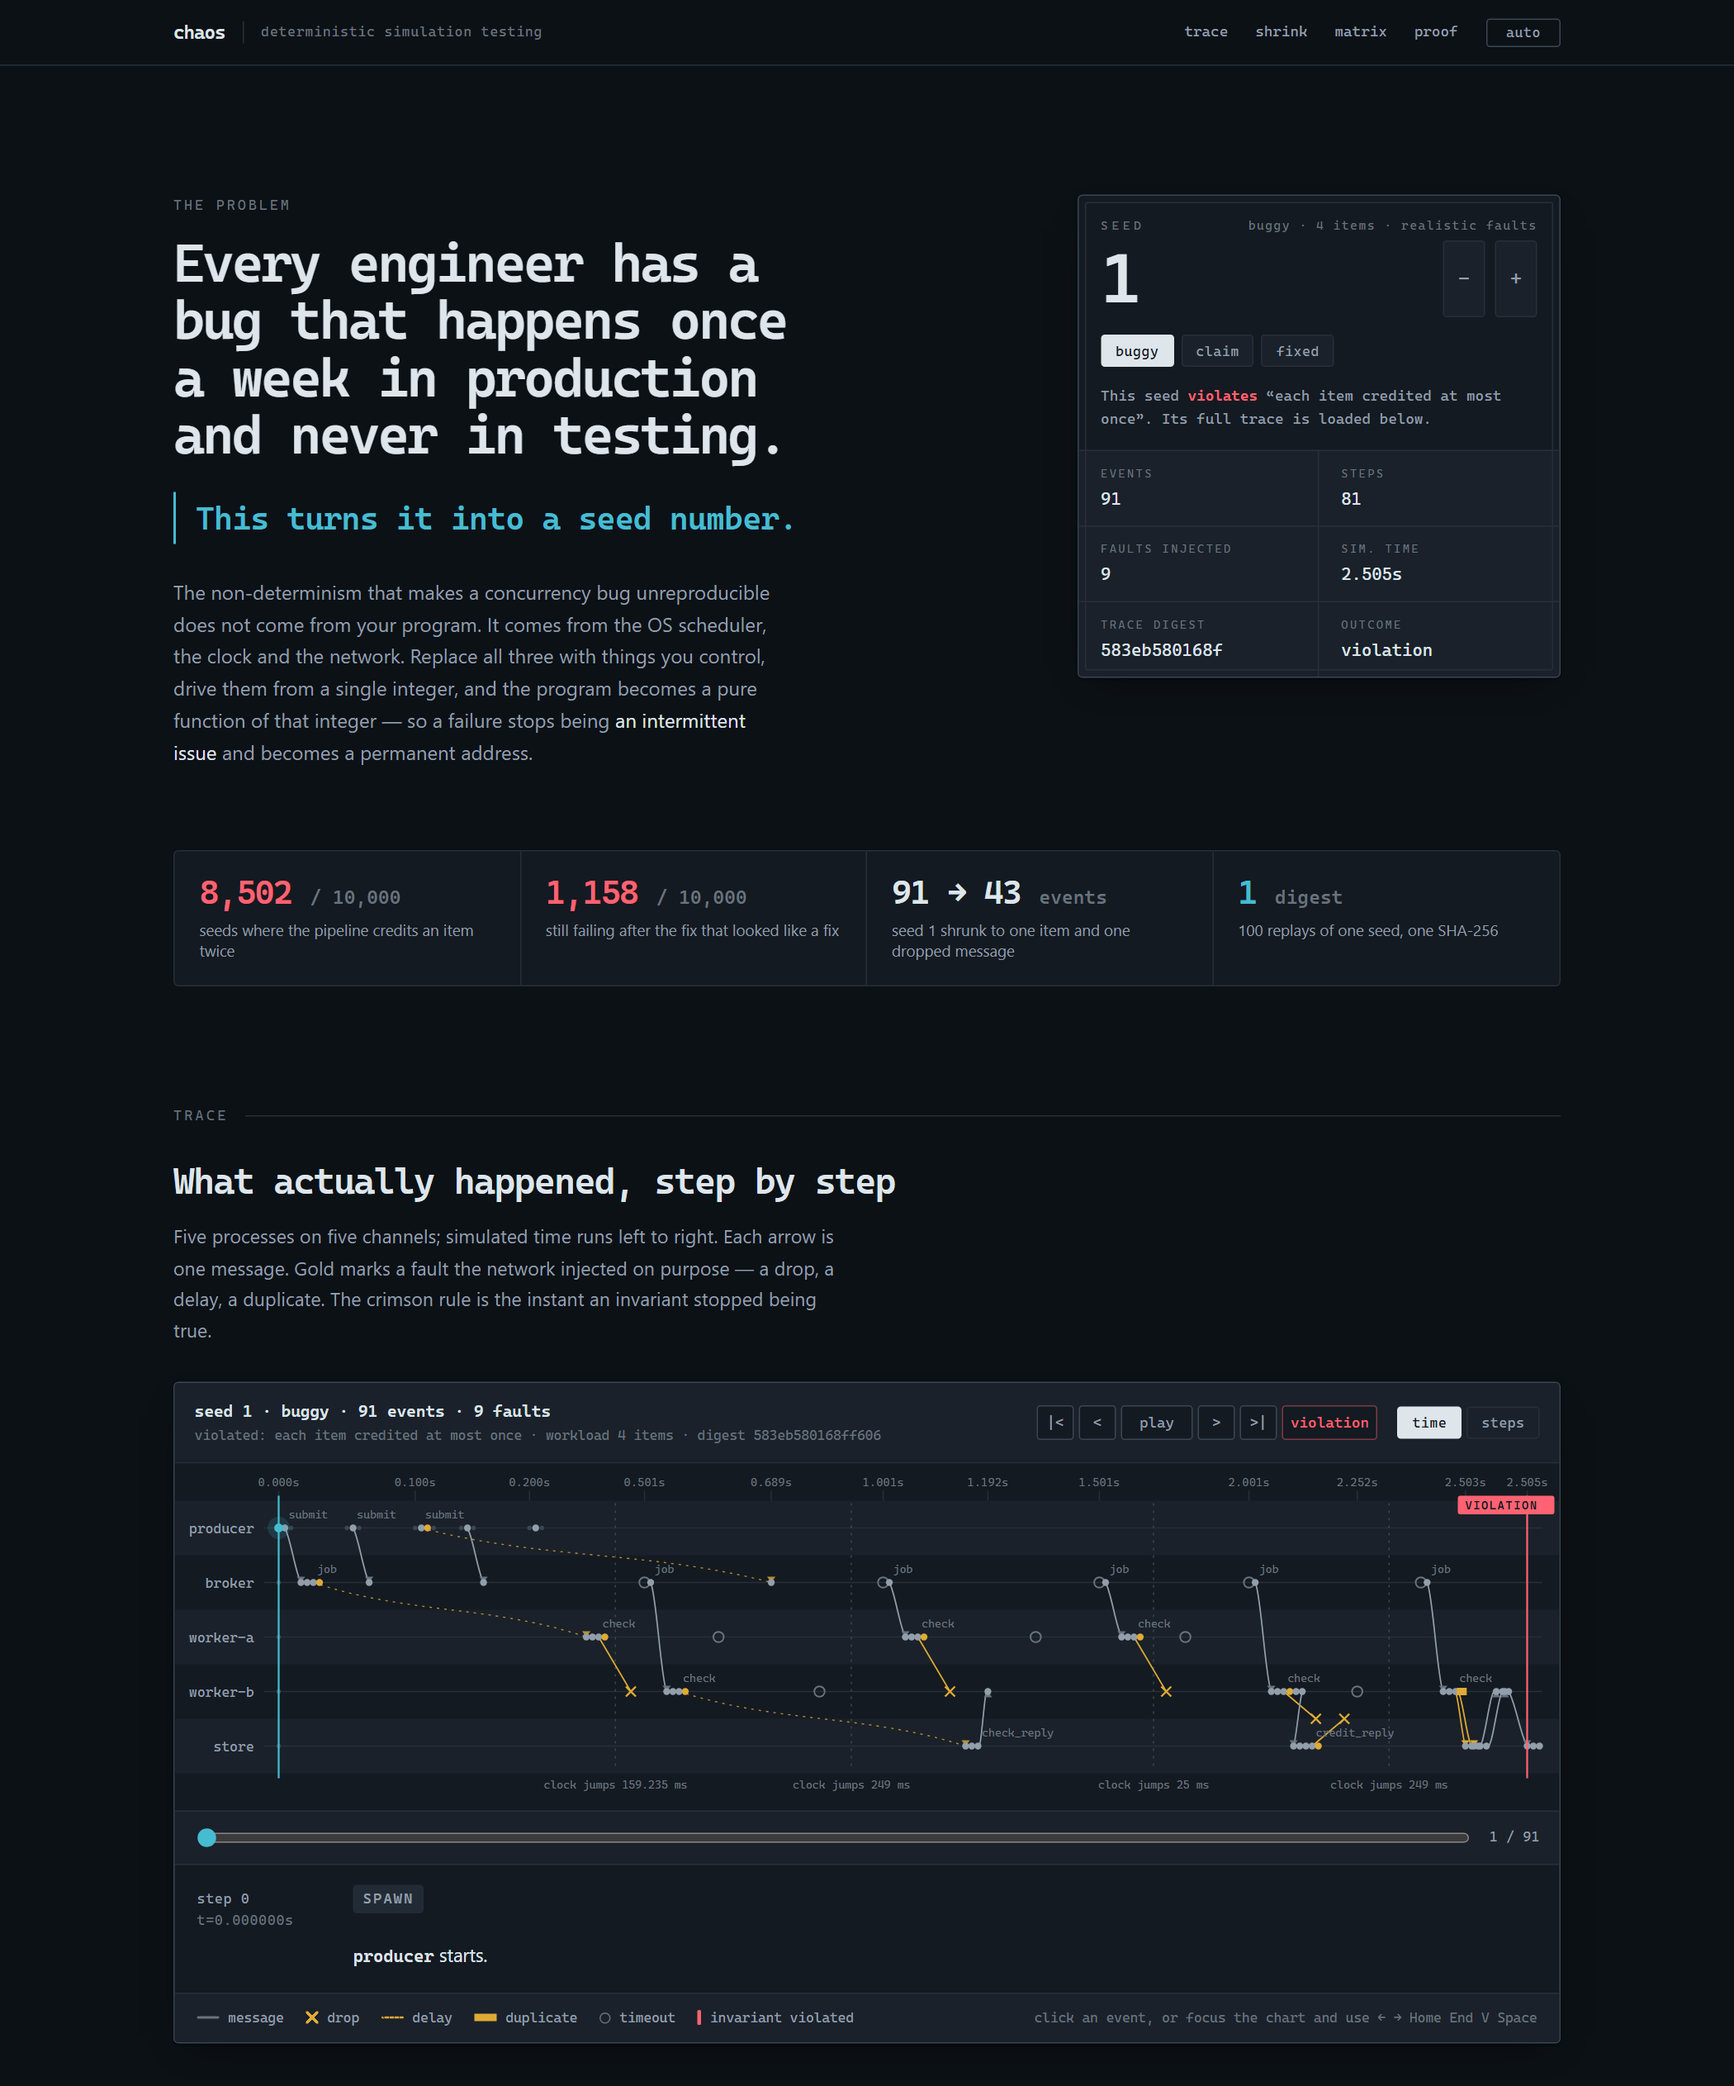
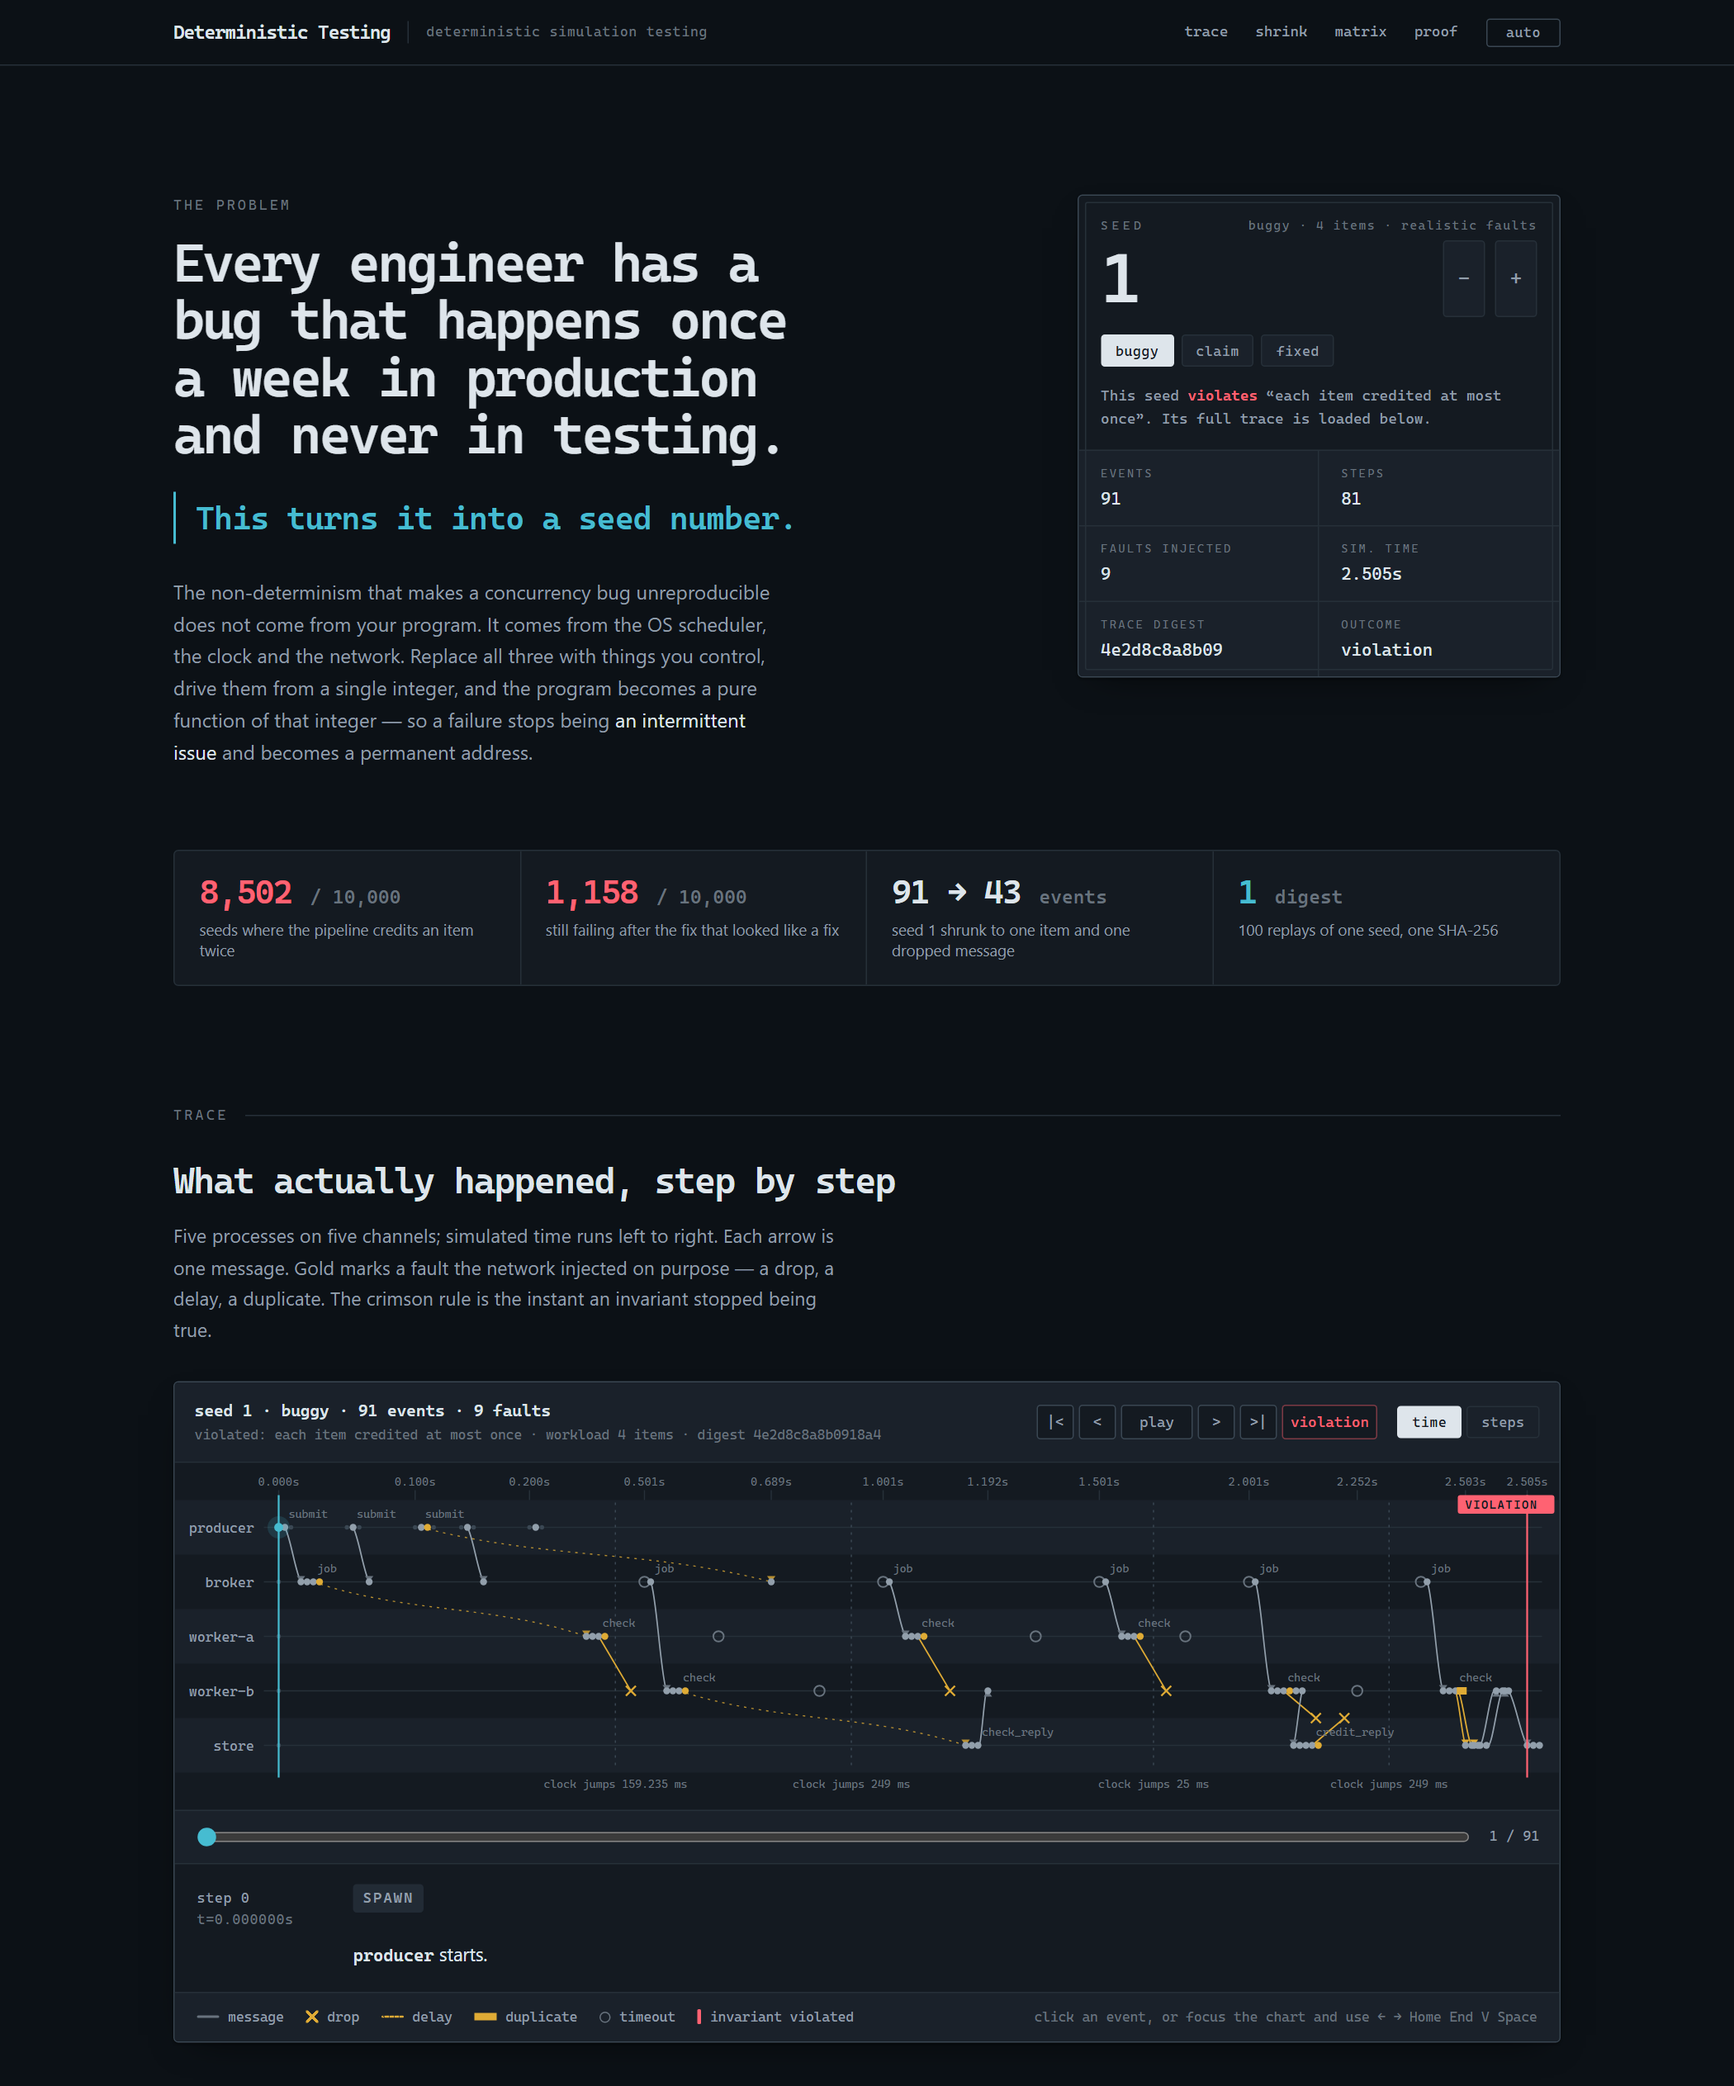
Rename, publish static demo, fix licence holder
- LICENSE copyright holder corrected to Kalash Somnathe
- DEFENCE.md renamed to DESIGN.md; prepared interview Q&A removed

diff --git a/DESIGN.md b/DESIGN.md
@@ -1,4 +1,4 @@
-# DEFENCE.md
+# DESIGN.md
 
 The design arguments behind `deterministic-testing`, the costs I accepted, and the questions I
 expect to be asked.
@@ -169,84 +169,6 @@ The honest summary: this is a working implementation of the core idea, at a scal
 where I can explain every line. It is not a competitor.
 
 ---
-
-## 7. Ten questions I expect, with short answers
-
-**1. Prove the determinism. How do I know the seed really is enough?**
-Run `deterministic-testing verify --runs 100`, or `pytest -k determinism`. The trace digest is a
-SHA-256 over every event's step, virtual timestamp, kind, process and payload —
-not a summary. More importantly, the suite shells out to *separate interpreters*
-with `PYTHONHASHSEED` set to `0`, `1`, `424242` and `random` twice, and requires
-all of them to agree with each other and with the parent. I mutation-tested that:
-a `set`-iteration bug in the scheduler passes the in-process 100x test and fails
-the cross-process one. That is why both exist.
-
-**2. Why not just fix the flaky test with a retry?**
-Because the flake is the bug reporting itself. The example here double-credits a
-ledger; retrying the test hides it and it reaches production. There is a real
-version of that decision in the numbers: the intermediate `claim` fix reduced the
-failure rate from 85% to 12% of seeds, which in production would have looked
-exactly like a fix.
-
-**3. Your scheduler picks uniformly at random. Isn't a targeted search better?**
-Yes, and that is the obvious next step. PCT gives probabilistic bounds on finding
-bugs of a given depth by inserting a few priority-change points; FoundationDB's
-"buggify" biases toward hand-marked suspicious points. Uniform random is the
-honest baseline: it needs no tuning, and it found both bugs here in the first 11
-seeds.
-
-**4. What is the performance cost of all this indirection?**
-Every operation is a generator `send` plus a dict lookup plus a trace append —
-about 56,000 scheduler steps per second in CPython on this machine, at a mean of
-107 steps per run. But the comparison that matters is against wall-clock time, and
-virtual time wins by orders of magnitude: 10,000 seeds of the corrected pipeline
-cover 89 hours of simulated time in 21 seconds. The search is also embarrassingly
-parallel and this implementation does not exploit that.
-
-**5. How would I use this on a real service?**
-You would not point it at your service; you would write a model of the concurrent
-core as generators, keeping the real logic and replacing I/O with `Send`/`Recv`.
-That is a genuine cost and the main reason such tools do not get adopted. It pays
-off where the concurrency is the product — a ledger, a matching engine, a
-settlement pipeline, a replication protocol — and not where the concurrency is
-incidental.
-
-**6. Why is `Recv` a scheduler step even when a message is already waiting?**
-It makes "check the mailbox" an interleaving point. A surprising number of real
-check-then-act bugs live exactly there. It fell out of unifying two code paths and
-I kept it deliberately; it is documented in `_do_recv`.
-
-**7. What happens if the system under test cheats and calls `time.time()`?**
-It raises `NonDeterminismLeak` at that line. `deterministic_testing/guards.py` replaces
-`time.time`, `monotonic`, `perf_counter`, `sleep`, the module-level `random`
-functions, `uuid.uuid4` and `os.urandom` for the duration of every run, and
-restores them in a `finally`. It is a Python-level patch, not a sandbox: a
-reference bound at import time slips through, as does anything in C. It raises the
-cost of the mistake from zero to high.
-
-**8. Your invariants run after every step. Isn't that slow?**
-Yes, and it is the right trade. Checking at the end tells you the totals are
-wrong; checking every step tells you it happened at step 40, immediately after
-`worker-b` credited `item-0` a second time. The framework calls `describe()` only
-on failure, so the expensive string formatting is not on the hot path.
-
-**9. How do you know the shrunk scenario is really the same bug?**
-Every candidate must violate the same *named* invariant, not merely fail. And the
-minimal scenario is re-run from its own serialised description — the test
-`test_shrunk_scenario_replays_identically_many_times` replays it 30 times and
-requires one digest. What I do not claim is minimality: shrinking is a search over
-configurations, because removing a fault shifts every subsequent message sequence
-number.
-
-**10. What would you do next?**
-In order: parallelise the seed search across cores; add PCT-style biased
-scheduling with a depth bound; add process-crash and restart faults, which is the
-biggest missing fault class; add a causal-slice view so the shrunk trace shows
-only events on the dependency chain leading to the violation, which would take
-seed 1 from 43 events to about 12. Further out, the interesting question is
-whether you can drive real `asyncio` code by supplying a deterministic event loop,
-which would remove the model/implementation gap that is this design's main
-weakness.
 
 ---
 

diff --git a/README.md b/README.md
@@ -276,7 +276,7 @@ engine including disk and process crashes; it runs a real production codebase
 rather than a model, by making the whole system single-threaded and
 deterministic from the ground up; it swarm-tests continuously on hundreds of
 machines; and it biases seed selection toward interleavings that have historically
-found bugs. See DEFENCE.md.
+found bugs. See DESIGN.md.
 
 ---
 
@@ -300,7 +300,7 @@ scripts/export_web_data.py           runs the framework and writes the live demo
 web/                                 the live demo: a static page, no build step
 ```
 
-Further reading: **DEFENCE.md** for the design arguments and the honest costs;
+Further reading: **DESIGN.md** for the design arguments and the honest costs;
 **FAILURES.md** for what went wrong while building it, including the part where
 the determinism test turned out not to work.
 

diff --git a/FAILURES.md b/FAILURES.md
@@ -181,7 +181,7 @@ rather than being discovered by an interviewer.
   report says which.
 * **The interleaving space is explored only at yield points.** A genuine data race
   on shared memory between two yields is invisible to this scheduler, by
-  construction. See DEFENCE.md.
+  construction. See DESIGN.md.
 * **The determinism guard is a Python-level patch, not a sandbox.** Code that
   bound a reference before the guard installed (`from time import time` at import
   time) slips through, as does anything in a C extension. It raises the cost of a
